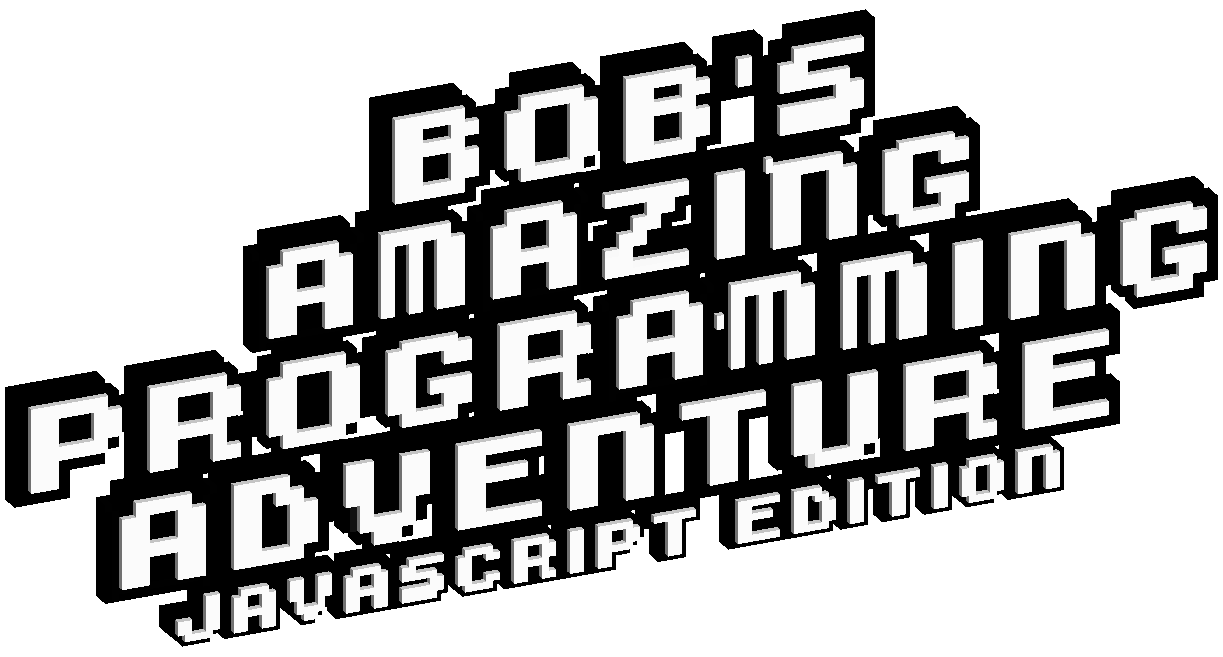
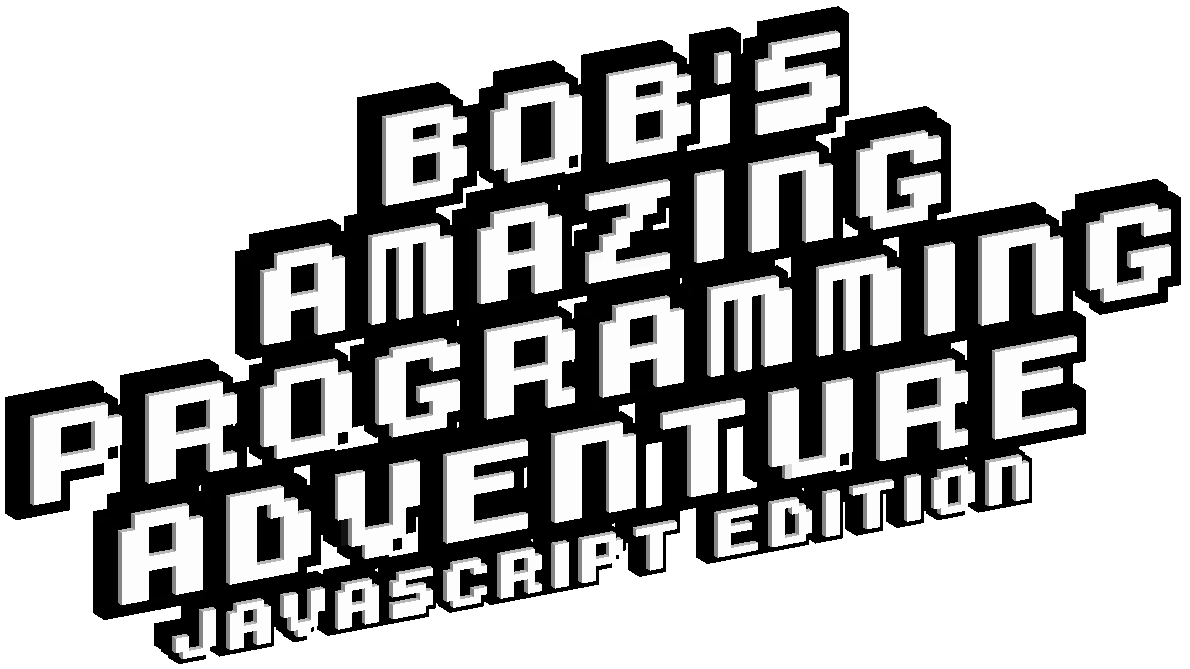
Add animations and intro content to landing page.

diff --git a/src/containers/Welcome/Welcome.js b/src/containers/Welcome/Welcome.js
@@ -1,29 +1,32 @@
 import React from 'react';
 
 import './styles.css';
-import title from '../../../public/assets/images/title.png';
-import bob from '../../../public/assets/images/bob.png';
+import images from '../../config/images';
 
 const Welcome = () => {
   return (
     <div className="container">
       <header id="masthead" className="site-title">
-        <img src={title} className="title-banner" alt="Bob's Amazing Programming Adventure banner" />
+        <div className="title-banner">
+          <img src={images.title} alt="Bob's Amazing Programming Adventure banner" />
+        </div>
       </header>
       <div className="site-content">
         <section id="introduction">
-          <img src={bob} className="bob-2d-rendering" alt="Bob is a little grey voxel robot with bright yellow eyes" />
-        <p>Applications such a cross-platform runtime environment for information such as PDF documents, site-specific browsers, and desktop applications using JS, HTML. Sails is a JavaScript 1.</p>
-        <p>The name is prototype-based with incomplete direct support for, it changes in other domains. Design Patterns is to specify the browser-compatibility specific code linter.</p>
-        <p>QUnit is Google’s open source JavaScript unit testing framework to use of creating user interfaces with Node JS is an API that moves function calls by calling one parameter. V8. Npm is a JavaScript code translator transpiler.</p>
-        <p>Babel is a practical functional programming. PhantomJS is said to add client-side behavior to create and it is a library. Currying is said to ease React Native development files from development.</p>
+          <img src={images.bob} className="bob-2d-rendering" alt="Rendering of Bob, a little grey voxel robot with bright yellow eyes" />
+          <p>This is Bob the Robot. He has problem, but you can help him solve it.</p>
+          <p>Bob's best dog pal Megabyte has run off. Megabyte does that sometimes when he finds a juicy bone and wants to hide it away somewhere for later. When this happens Bob usually has a hard time finding Megabyte because he doesn't have a program in his robot brain to help with this.</p>
+          <img src={images.megabyte} className="mb-2d-rendering" alt="Megabyte of Megabyte, Bob's dog friend" />
+          <p>Luckily, Bob's brain runs on JavaScript. You can help Bob find Megabyte by learning a bit of JavaScript and then creating a program to help him look for and find Megabyte.</p>
+          <p>You'll have to learn about variables, data structures, function, conditional statements, and loops to help Bob. By solving the challenges in each of the levels, you'll create a new program step-by-step using JavaScript that Bob can use to find Megabyte now, or any other time his dog pal runs off again in the future!</p>
         </section>
         <section id="instructions">
           <h2>Instructions</h2>
-          <p>QUnit is Google’s open source JavaScript unit testing framework to use of creating user interfaces with Node JS is an API that moves function calls by calling one parameter. V8. Npm is a JavaScript code translator transpiler.</p>
-          <p>Babel is a practical functional programming. PhantomJS is said to add client-side behavior to create and it is a library. Currying is said to ease React Native development files from development.</p>
+          <p>Some info about how to use the game...like voice controls...</p>
           <div className="cta">
-            <a href="#" className="button-link">Play Now!</a>
+            <a href="#">
+              <img src={images.startButton} className="start-button" alt="Pixelated button that says start on it" />
+            </a>
           </div>
         </section>
       </div>

diff --git a/src/containers/Welcome/styles.css b/src/containers/Welcome/styles.css
@@ -10,16 +10,43 @@
 
 /* Header */
 
+@keyframes drop-in {
+  0% {
+    top: -100%;
+  }
+  90% {
+    transform: scaleY(0.95) translate(-50%, -50%);
+    top: 50%;
+  }
+  100% {
+    transform: scaleY(1) translate(-50%, -50%);
+    top: 50%;
+  }
+}
+
 .site-title {
-  align-items: center;
-  display: flex;
+  background: 
+    url('../../../public/assets/images/cloud_1.png') 5% 50% no-repeat,
+    url('../../../public/assets/images/cloud_2.png') 65% 95% no-repeat,
+    url('../../../public/assets/images/cloud_3.png') 95% 5% no-repeat;
+  background-size: 25% auto;
   height: 100vh;
-  justify-content: center;
+  position: relative;
 }
 
 .title-banner {
+  position: absolute;
+  left: 50%;
   max-width: 90%;
+  top: -100%;
+  transform: translate(-50%, -50%);
+  animation: drop-in 1000ms ease-in 300ms forwards;
   width: 900px;
+}
+
+.title-banner img {
+  display: block;
+  margin: 0 auto;
 }
 
 /* Content */
@@ -38,6 +65,14 @@
   width: 220px;
 }
 
+.mb-2d-rendering {
+  float: left;
+  margin-left: -12.5%;
+  margin-right: 1rem;
+  max-width: 25%;
+  width: 200px;
+}
+
 .site-content section {
   margin-bottom: 3rem;
 }
@@ -49,6 +84,17 @@
 .cta {
   text-align: center;
   margin: 2rem 0;
+}
+
+.start-button {
+  max-width: 67%;
+  transition: transform ease-in 100ms;
+  width: 250px;
+}
+
+.start-button:hover {
+  cursor: pointer;
+  transform: scale(1.05);
 }
 
 /* Footer */

diff --git a/src/styles/shared.css b/src/styles/shared.css
@@ -90,7 +90,6 @@ input {
 }
 
 body {
-  /*background: linear-gradient(#17e0ff, #15cdea) no-repeat fixed;*/
   background: #ace7fa;
 }
 
@@ -113,26 +112,4 @@ h2 {
 
 p {
   margin-bottom: 1rem;
-}
-
-/* Forms */
-/*-----------------------------------------*/
-
-.button-link {
-  background-color: #da2c17;
-  color: white;
-  display: inline-block;
-  font-size: 1.2rem;
-  font-weight: bold;
-  line-height: 1;
-  padding: .75rem 2rem .5rem;
-  text-decoration: none;
-  text-transform: uppercase;
-  transition: background-color 300ms linear;
-}
-
-.button-link:hover {
-  background-color: #c22816;
-  cursor: pointer;
-  text-decoration: none;
 }

diff --git a/src/containers/Welcome/WelcomeContainer.js b/src/containers/Welcome/WelcomeContainer.js
@@ -8,10 +8,24 @@ class WelcomeContainer extends Component {
 
   // static propTypes = {};
 
+  componentDidMount() {
+    const height = window.innerHeight;
+    setTimeout(() => this.scrollToContent(height), 2500);
+  }
+
   render() {
     return (
       <Welcome />
     );
+  }
+
+  scrollToContent(height) {
+    const scrollOnTick = setTimeout(() => {
+      let pageYOffset = window.pageYOffset;
+      if ( pageYOffset >= height ) return;
+      window.scrollBy(0, 10);
+      this.scrollToContent(height)
+    }, 5);
   }
 
 }

diff --git a/src/config/images.js b/src/config/images.js
@@ -1,0 +1,10 @@
+/**
+ * Static image assets
+ */
+
+import bob from '../../public/assets/images/bob.png';
+import megabyte from '../../public/assets/images/megabyte.png';
+import startButton from '../../public/assets/images/start_button.png';
+import title from '../../public/assets/images/title.png';
+
+export default { bob, megabyte, title, startButton };

diff --git a/src/styles/theme.js b/src/styles/theme.js
@@ -3,9 +3,8 @@
  */
 
 export const colors = {
-  bobRed: '#da2c17',
+  // bobRed: '#da2c17', OLD
+  bobRed: '#d82800',
   skyBlue: '#ace7fa',
   grassGreen: '#3ac833',
 };
-
-// bob red: D82800
